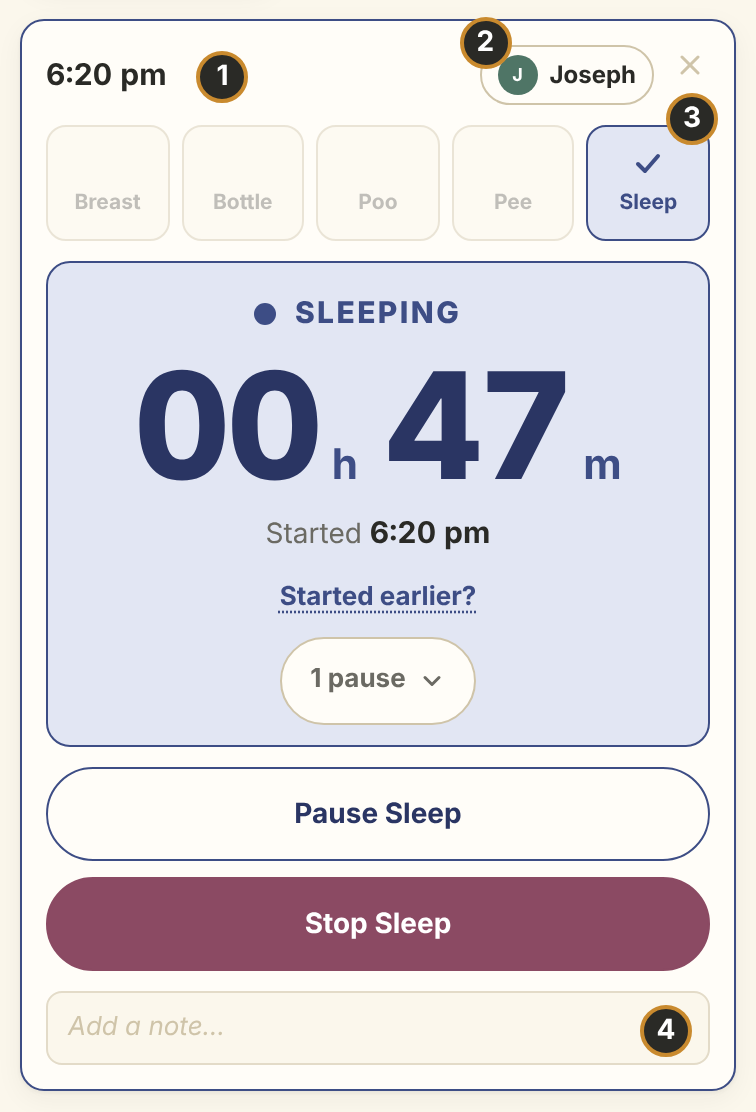
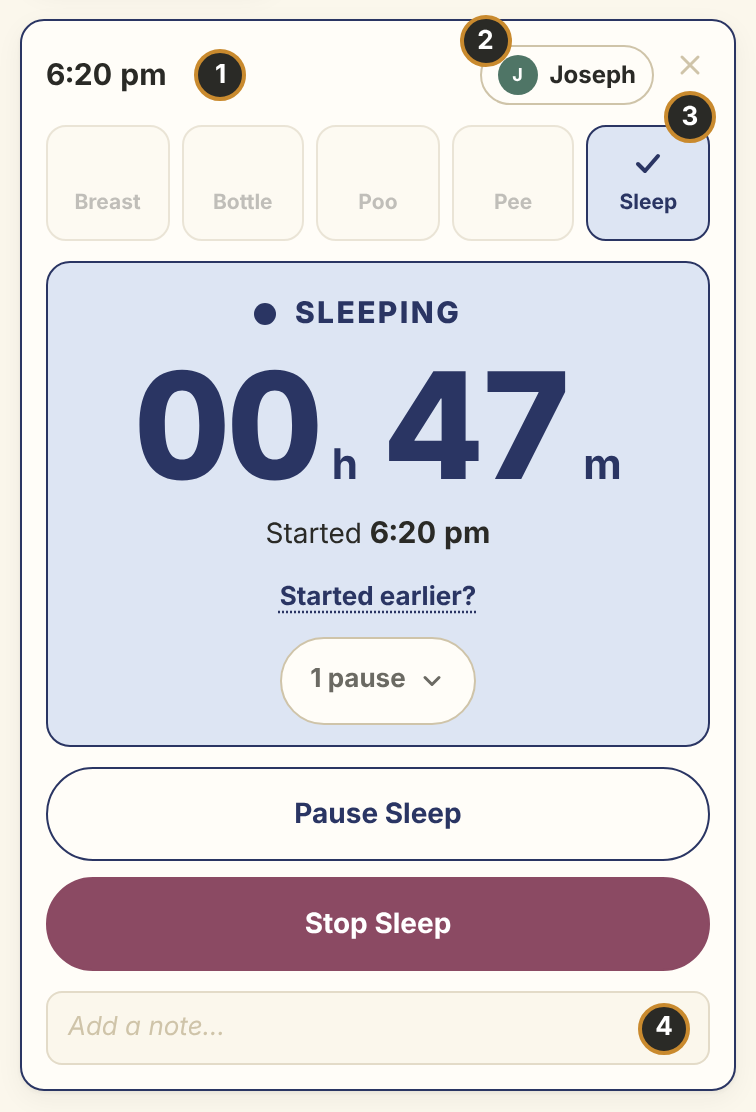
Release 1.14.0: changelog, version bump and refreshed Sleep tracker guide (JOS-83)
Moves the entry into 1.14.0 and bumps package.json and the lock file. The
Sleep tracker guide is refreshed for the single sleep blue (every screenshot
that shows it is reshot) and gains the new surfaces: the Last sleep tile, the
Delete sleep button and its confirm box, a restore that is refused, and two
pages for Reports > Sleep (eight pages in all). The guide generator's sleep
chip colour follows the new indigo.

Claude-Session: https://claude.ai/code/session_01GhkL3iWYhYSXKkkfBNkSoT

diff --git a/scripts/generate-user-guide.py b/scripts/generate-user-guide.py
@@ -52,7 +52,7 @@ SOFT = HexColor("#6b6a63")
 LINE = HexColor("#cfc4a9")
 CHIP_COLORS = {
     "sage": HexColor("#4f7566"),
-    "night": HexColor("#3d4d85"),
+    "night": HexColor("#2a3563"),
     "amber": HexColor("#a9731f"),
     "rose": HexColor("#8b4a63"),
     "ink": INK,

diff --git a/CHANGELOG.md b/CHANGELOG.md
@@ -9,6 +9,26 @@ feature, and PATCH is a fix with no new functionality.
 
 ## [Unreleased]
 
+## [1.14.0] - 2026-10-20
+
+### Added
+- Sleep reports, a Last sleep tile and Delete sleep (JOS-83). Reports has a new
+  Sleep tab beside Feeds and nappies: a Today card (awake or asleep and for how
+  long, today's naps added up, last night and each nap), then, for the last 7 or
+  30 days, a month, a year or all time, a 24-hour pattern, nine averages, two
+  charts and a table of every day. A sleep counts on the day baby woke and is
+  never cut at midnight; one still going is in no total, and averages skip today
+  and days with no sleep. Log has a fourth tile, Last sleep, with a Sleeping now
+  or Paused pill while a sleep is open. A finished sleep card has a Delete sleep
+  button, and restoring a sleep checks for overlaps again. Needs no database
+  changes.
+
+### Changed
+- Sleep is now one blue everywhere (JOS-83): the tile, the card, the pill and
+  every Reports chart share one deep indigo and one pale tint, where there used
+  to be three. It stays clearly apart from Pump's violet and Breast's teal, and
+  the text on it meets the WCAG AA contrast levels.
+
 ## [1.13.1] - 2026-10-19
 
 ### Changed
